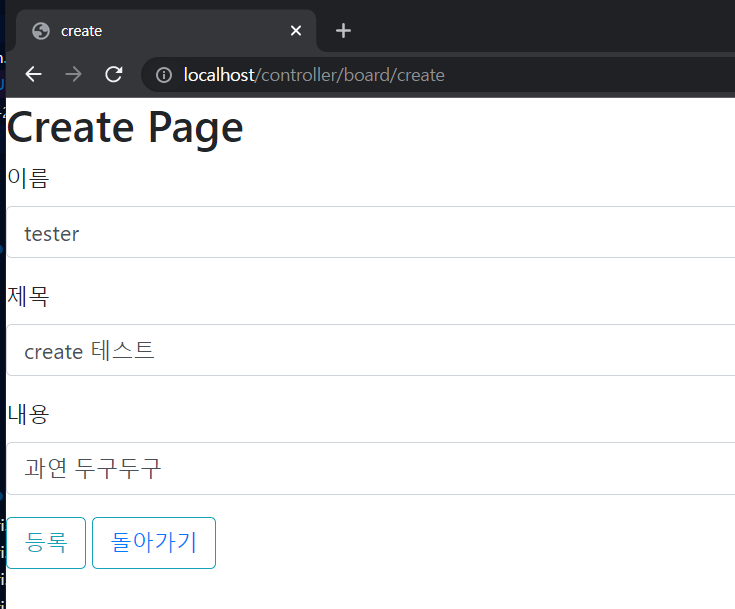
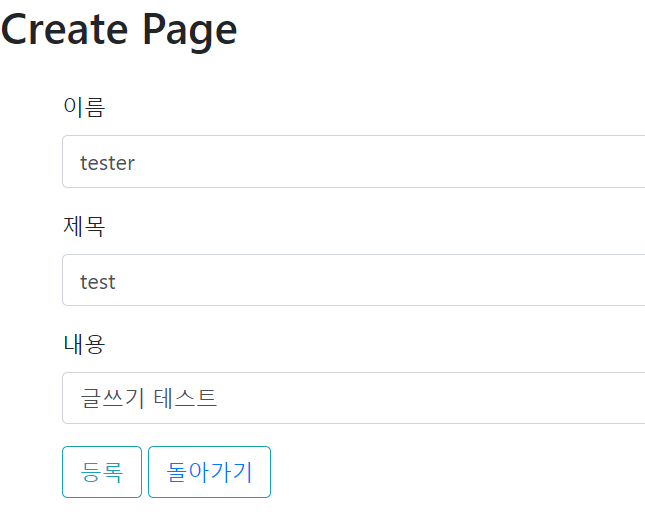
Spring12 내용추가

Changed region(s): [[0.0, 0.0, 1.0, 1.0], [0.124, 0.303, 0.2171, 0.3333]]

diff --git a/_posts/Spring/2021-12-28-Spring12.md b/_posts/Spring/2021-12-28-Spring12.md
@@ -22,6 +22,11 @@ date: '2021-12-28'
 <!DOCTYPE html>
 <html>
 <head>
+<style>
+	.center{
+		margin: 5px 25px; padding: 20px
+	}
+</style>
 <link rel="stylesheet" href="https://stackpath.bootstrapcdn.com/bootstrap/4.1.3/css/bootstrap.min.css">
 <meta charset="UTF-8">
 <title>create</title>
@@ -298,3 +303,13 @@ public class TestController {
 }
 ```
 
+
+<br>
+<br>
+
+## <span style="color:#D77FA1">글 작성해보기</span>
+<hr>
+
+![](/assets/img/springdb13.PNG)
+
+![](/assets/img/springdb14.PNG)
